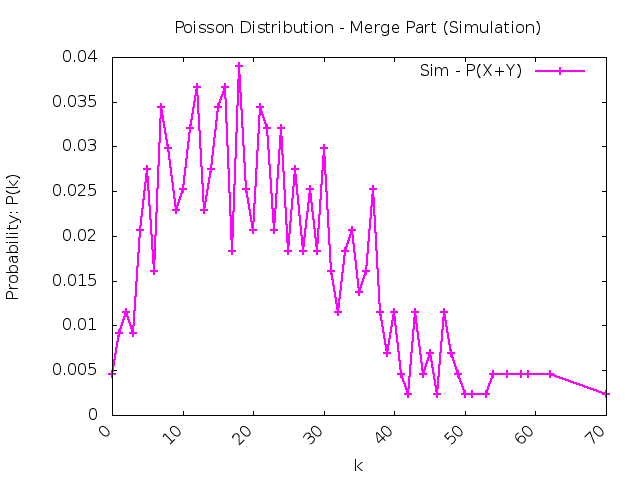
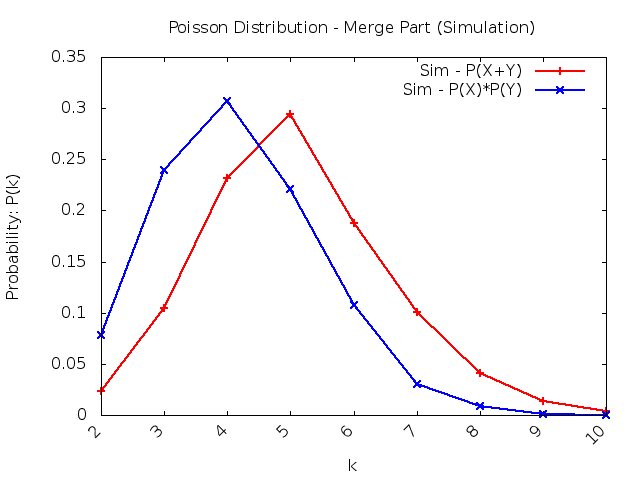
Modify part_a simulation model.
* Sim - P(X+Y) & Sim - P(X)*P(Y)

diff --git a/poisson_distribution/part_a.cc b/poisson_distribution/part_a.cc
@@ -5,12 +5,6 @@
 #include "../utils/rand_gen.h"
 #include "../utils/event.h"
 
-// For gathering simulation result
-struct multi{
-    float xy;
-    int s;
-};
-
 int main(int argc,char *argv[]){
     // create parsing args object
     parse_args *args = new parse_args();
@@ -54,59 +48,32 @@ int main(int argc,char *argv[]){
     // ===================================== Simulation Part ===================================== 
     int simulation_time = std::atoi(args->get_args_val("s").val.c_str());
 
-    /*std::map<int,int> x,y,S; 
-    std::map<int,multi> sim;
-
-    FILE *fpx;
-    fpx=fopen("output/part_a_sim.output","w+");
-
-    for(int i=0;i<simulation_time;i++){
-        x[poisson_rand_gen(lambda1)]++;
-        y[poisson_rand_gen(lambda2)]++;
-        S[poisson_rand_gen(lambda1+lambda2)]++;
-    }
-
-    for(auto& it: S){
-        sim[it.first].s=it.second;
-        for(int i=0;i<it.first;i++){
-            sim[it.first].xy+=((x[i]+y[it.first-i])/2);
-        }
-        sim[it.first].xy /= (it.first);
-    }
-
-    // Third way => to construct X, Y separately, and map to an Time queue
-
-    for(auto& it: sim){
-        // Calculate result
-        fprintf(fpx,"%d %f %f\n",it.first,(float)it.second.s/simulation_time,(float)it.second.xy/(2*simulation_time));
-    }*/
-
     // discrete event simulation
     rand_gen *gen = new rand_gen();
-    event_list *elist = new event_list();
+    event_list *elist = new event_list(),*elist_x=new event_list(),*elist_y=new event_list();
     int rnt=simulation_time;
     FILE *fp_sim = fopen("output/part_a_sim.output","w+");
     // init with one X, Y event
     event_type X,Y,S;
-    X.timestamp=0;
-    X.type=std::string("X");
-    Y.timestamp=0;
-    Y.type=std::string("Y");
-    elist->set(X);
-    elist->set(Y);
+    elist->set(0,std::string("X"));
+    elist->set(0,std::string("Y"));
+
+    elist_x->set(0,std::string("X"));
+
+    elist_y->set(0,std::string("Y"));
+
+    // Scheduling S=X+Y
     while(rnt){
         // pop out
         if(elist->get(S)){
             if(S.type==std::string("X")){
-                X.timestamp=gen->exponential(lambda1,5*lambda1);
+                X.timestamp=gen->exponential(lambda1,lambda1);
                 X.type=std::string("X");
-                printf("X: %lf\n",X.timestamp);
                 elist->set(X);
             }
             else if(S.type==std::string("Y")){
-                Y.timestamp=gen->exponential(lambda2,5*lambda2);
+                Y.timestamp=gen->exponential(lambda2,lambda2);
                 Y.type=std::string("Y");
-                //printf("%lf\n",Y.timestamp);
                 elist->set(Y);
             }
             // record S
@@ -115,11 +82,38 @@ int main(int argc,char *argv[]){
         }
     }
 
+    // X
+    rnt=simulation_time;
+    while(rnt){
+        // pop out
+        if(elist_x->get(S)){
+            elist_x->set(gen->exponential(lambda1,lambda1),std::string("X"));            
+            // record S
+            elist_x->record(S);
+            rnt--;
+        }
+    }
+
+    // Y
+    rnt=simulation_time;
+    while(rnt){
+        // pop out
+        if(elist_y->get(S)){
+            elist_y->set(gen->exponential(lambda2,lambda2),std::string("Y"));            
+            // record S
+            elist_y->record(S);
+            rnt--;
+        }
+    }
+
     //printf("size: %d, current time: %lf\n",(int)elist->rec.size(),elist->rec.back().timestamp);
-    // erase the first 2 element
+    // erase the init element
     elist->rec.erase(elist->rec.begin(),elist->rec.begin()+2);
+    elist_x->rec.erase(elist_x->rec.begin(),elist_x->rec.begin()+1);
+    elist_y->rec.erase(elist_y->rec.begin(),elist_y->rec.begin()+1);
+
     int count=0,count_x=0,count_y=0;
-    double slot=1.0/(lambda1+lambda2),slot_x=1.0/lambda1,slot_y=1.0/lambda2,
+    double slot=exp(-1.0/(lambda1+lambda2)),slot_x=exp(-1.0/lambda1),slot_y=exp(-1.0/lambda2),
         record_slot=slot,record_slot_x=slot_x,record_slot_y=slot_y;
     std::map<int,int> counter,counter_x,counter_y;
 
@@ -135,28 +129,36 @@ int main(int argc,char *argv[]){
             counter[count]++;
             count=0;
         }
-        // X
-        if(tmp.type==std::string("X")){
-            if(tmp.timestamp<=record_slot_x)
-                count_x++;
-            else{
-                record_slot_x+=slot_x;
-                counter_x[count_x]++;
-                count_x=0;
-            }
-        }
-        // Y
-        if(tmp.type==std::string("Y")){
-            if(tmp.timestamp<=record_slot_y)
-                count_y++;
-            else{
-                record_slot_y+=slot_y;
-                counter_y[count_y]++;
-                count_y=0;
-            }
-        }
-
     }
+
+    while(elist_x->rec.size()!=0){
+        event_type tmp;
+        tmp=elist_x->rec.front();
+        elist_x->rec.erase(elist_x->rec.begin(),elist_x->rec.begin()+1);
+        // X
+        if(tmp.timestamp<=record_slot_x)
+            count_x++;
+        else{
+            record_slot_x+=slot_x;
+            counter_x[count_x]++;
+            count_x=0;
+        }
+    }
+
+    while(elist_y->rec.size()!=0){
+        event_type tmp;
+        tmp=elist_y->rec.front();
+        elist_y->rec.erase(elist_y->rec.begin(),elist_y->rec.begin()+1);
+        // X
+        if(tmp.timestamp<=record_slot_y)
+            count_y++;
+        else{
+            record_slot_y+=slot_y;
+            counter_y[count_y]++;
+            count_y=0;
+        }
+    }
+
     if(count!=0)
         counter[count]++;
     if(count_x!=0)
@@ -172,16 +174,23 @@ int main(int argc,char *argv[]){
 
     for(auto&it : counter_x){
         //printf("X: %d %d\n",it.first,it.second);
+        count_x+=it.second;
     }
 
     for(auto&it : counter_y){
         //printf("Y: %d %d\n",it.first,it.second);
+        count_y+=it.second;
     }
 
     for(auto&it : counter){
-        fprintf(fp_sim,"%d %lf\n",it.first,(float)it.second/count);
+        double p_xy=0.0;
+        for(int i=0;i<=it.first;i++){
+            // S=X+Y, X:0~it.first, Y:it.first~0
+            p_xy+=((float)counter_x[i]/count_x)*((float)counter_y[it.first-i]/count_y);
+        }
+
+        fprintf(fp_sim,"%d %lf %lf\n",it.first,(float)it.second/count,p_xy);
     }
-    //printf("%f\n",total);
 
     return 0;
 }

diff --git a/utils/event.cc b/utils/event.cc
@@ -14,6 +14,17 @@ void event_list::set(const event_type x){
     std::sort(list.begin(),list.end(),comp);
 }
 
+void event_list::set(const double ts, const std::string type){
+    // create 
+    event_type x;
+    x.timestamp=ts;
+    x.type=type;
+    // push the x into list ,and sort it
+    list.push_back(x);
+    // sort it
+    std::sort(list.begin(),list.end(),comp);
+}
+
 int event_list::get(event_type& x){
     if(list.size()>0){
         x = list.back();

diff --git a/utils/event.h b/utils/event.h
@@ -14,8 +14,10 @@ class event_list{
     public:
         event_list();
         ~event_list();
-        // overloading 
+        // set 
         void set(const event_type x);
+        // another set
+        void set(const double ts, const std::string type);
         // get 
         int get(event_type& x);
         // size
